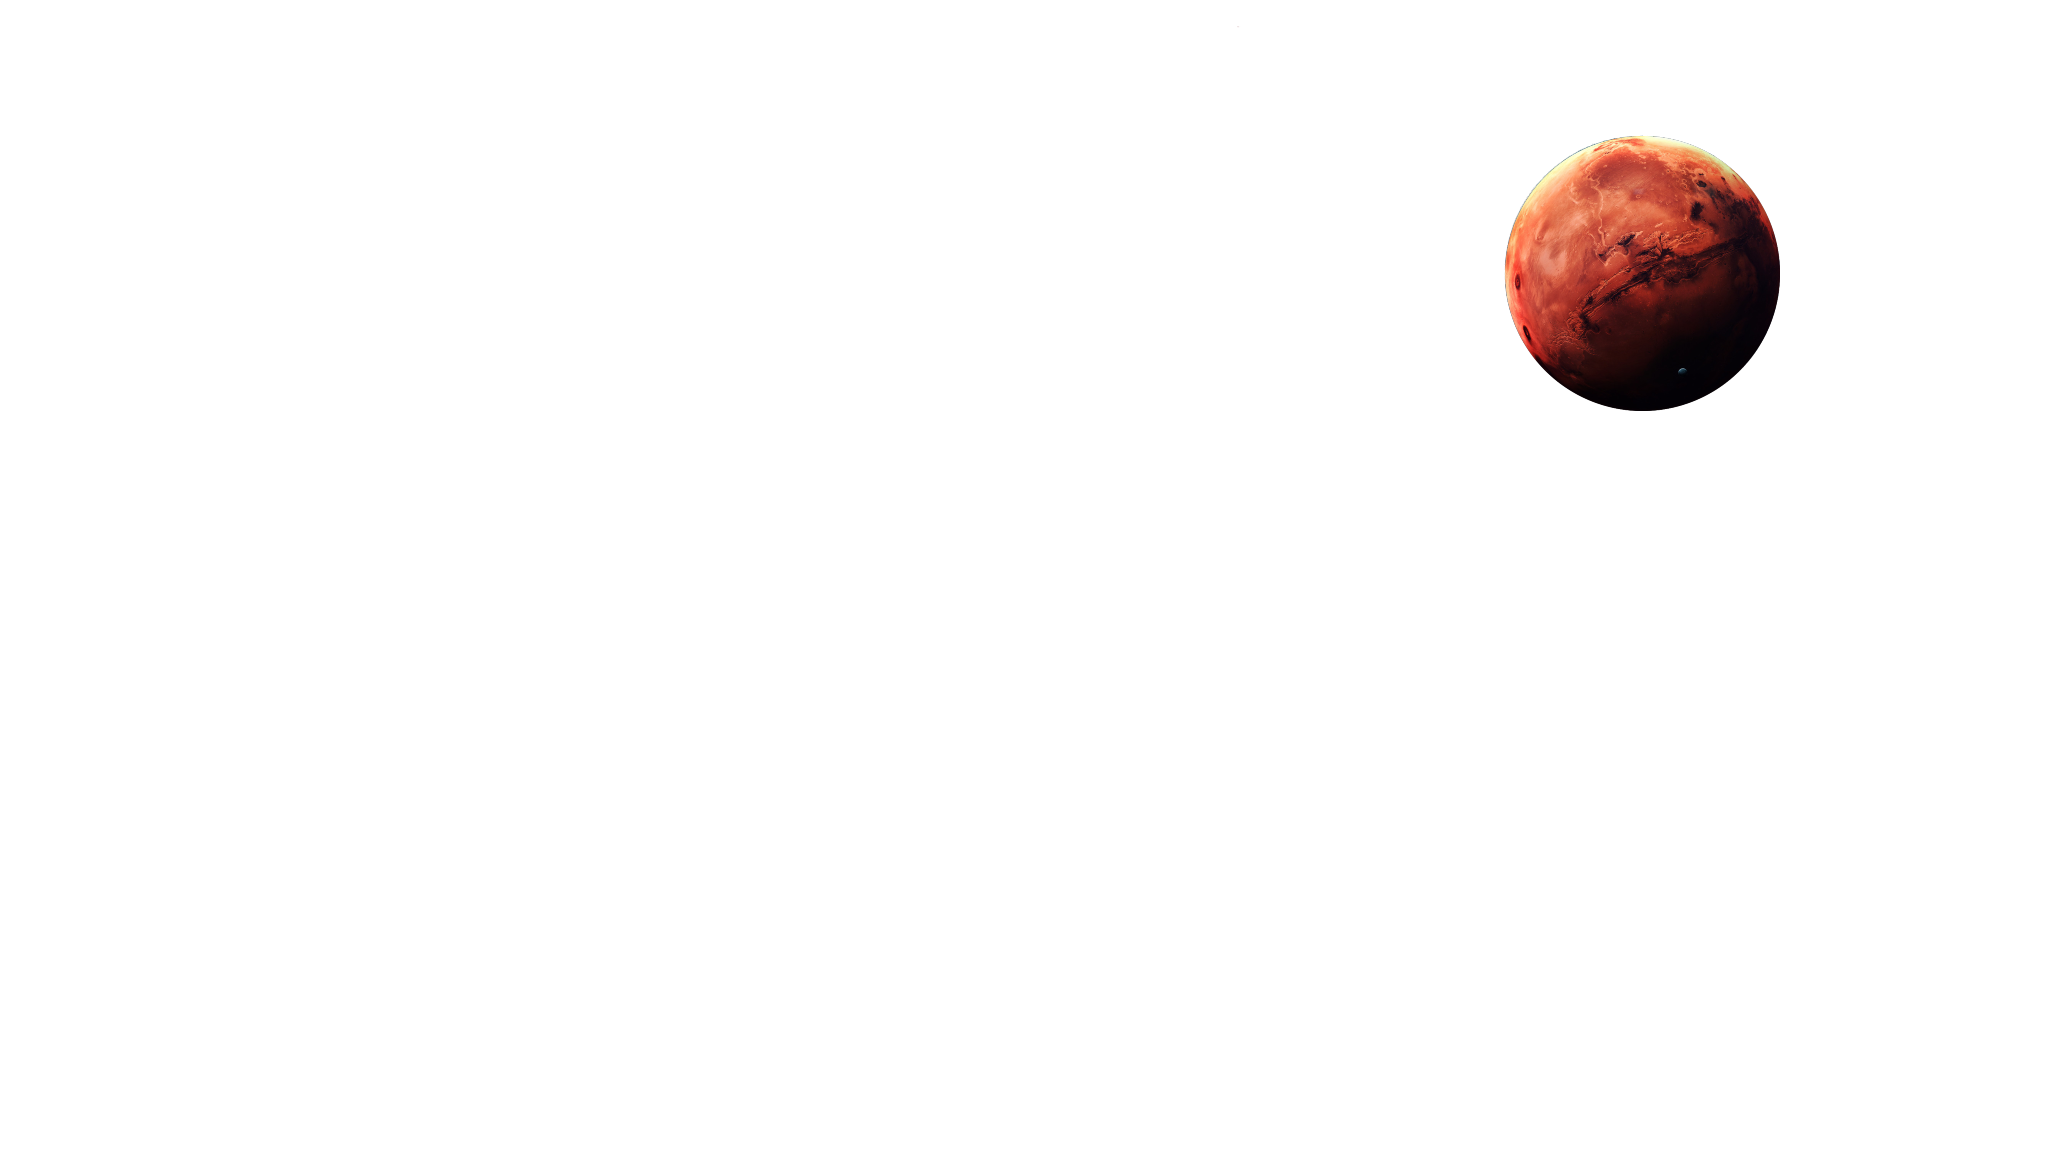
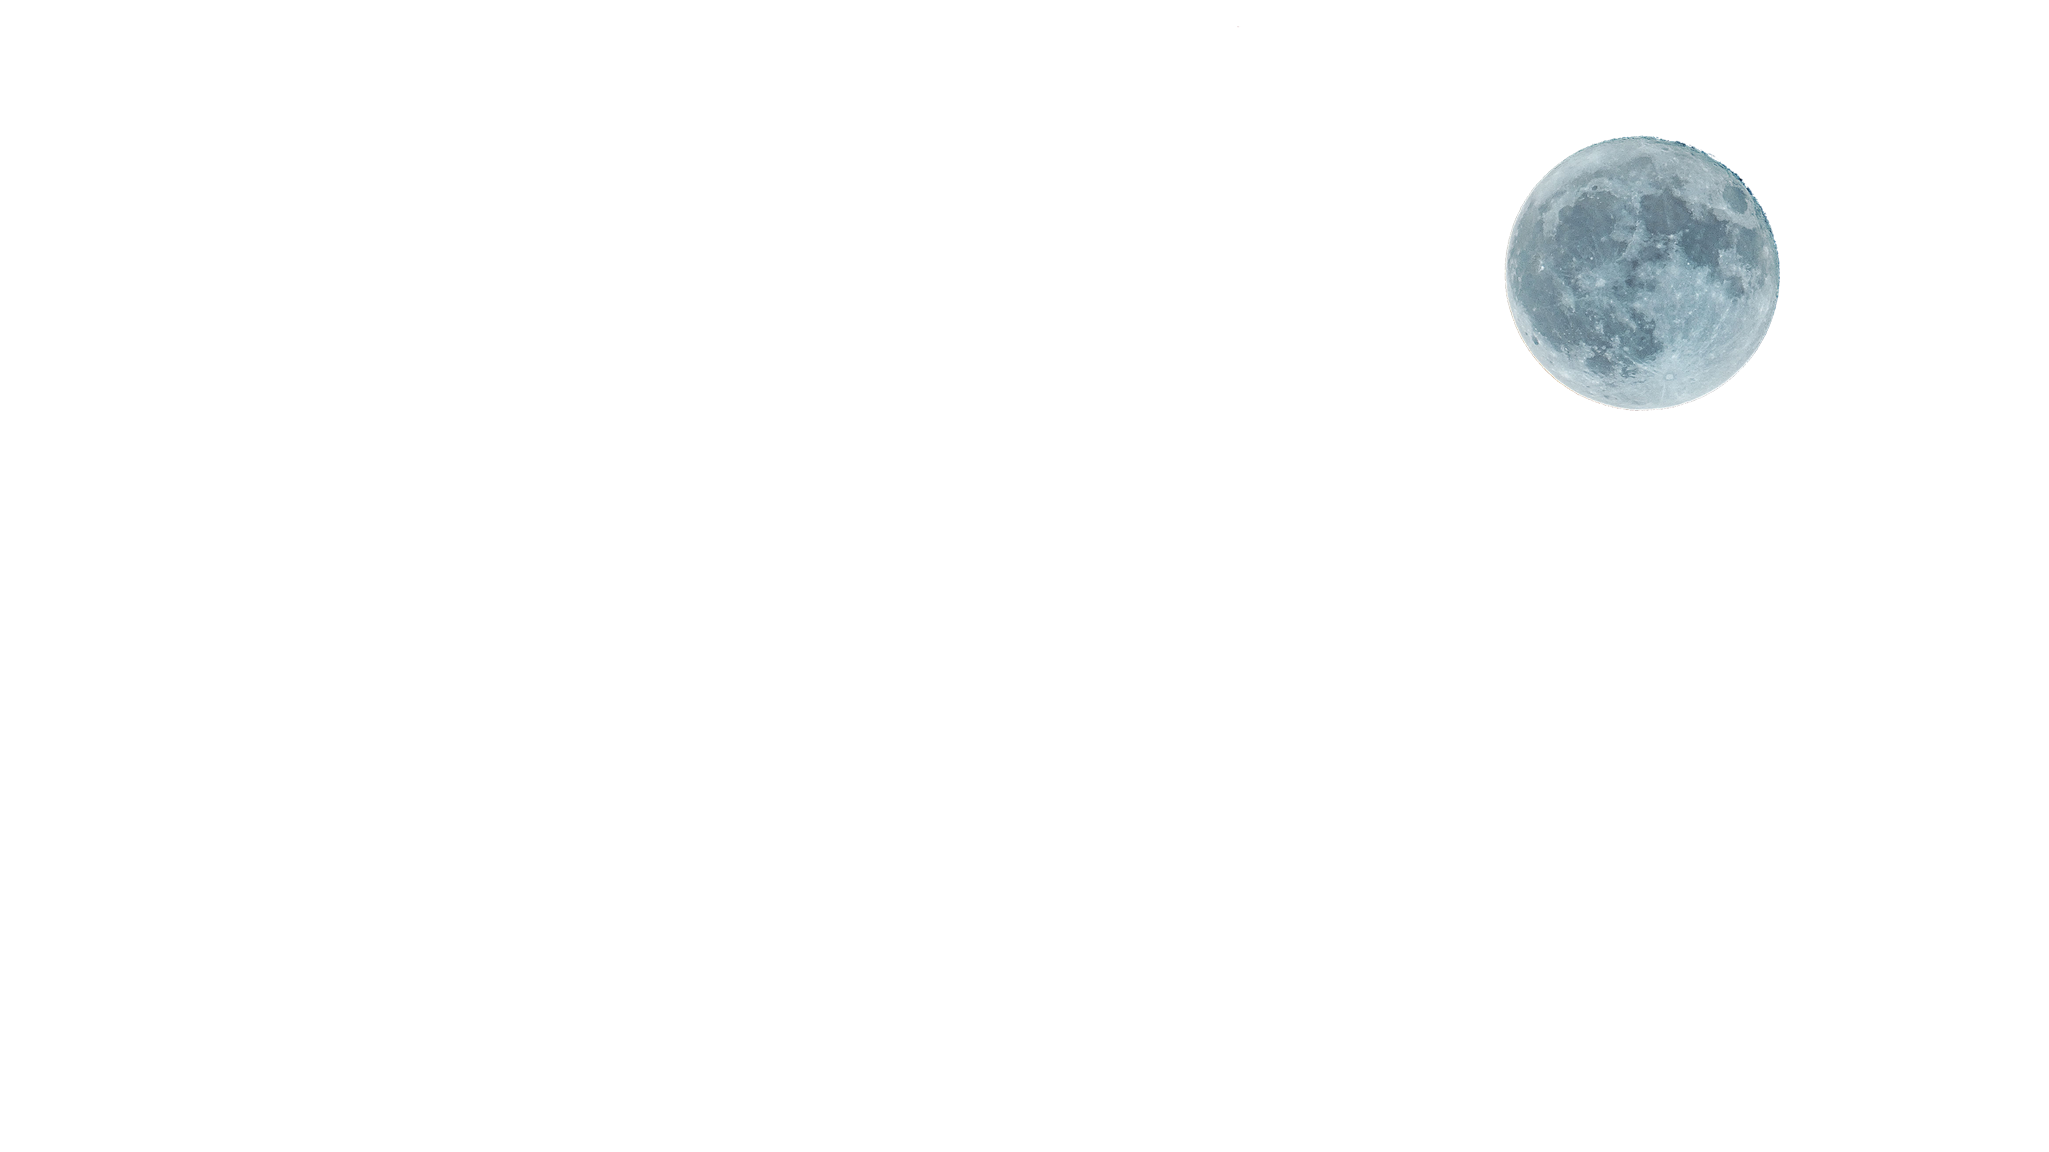
remove background from students page. Use moon to make it cleaner

Changed region(s): [[0.7184, 0.0938, 0.8746, 0.375]]

diff --git a/docs/js/home-hero.js b/docs/js/home-hero.js
@@ -1,4 +1,4 @@
-let bg = document.getElementById('hero-bg');
+// let bg = document.getElementById('hero-bg');
 let planet = document.getElementById('hero-planet');
 let mountain_back = document.getElementById('hero-mountain-back');
 let mountain_middle = document.getElementById('hero-mountain-middle');
@@ -9,7 +9,7 @@ window.addEventListener('scroll', function(){
     var value = window.scrollY;
     
     // background
-    bg.style.top = -value * 0.2 + 'px';
+    // bg.style.top = -value * 0.2 + 'px';
     // planet
     planet.style.left = -value * 0.5 + 'px';
     planet.style.top = value * 0.8 + 'px';

diff --git a/docs/students.html b/docs/students.html
@@ -21,7 +21,7 @@
         </style>
 
         <section id="home-hero">
-            <img src="images/home-hero/bg.jpg" id="hero-bg">
+            <!-- <img src="images/home-hero/bg.jpg" id="hero-bg"> -->
             <img src="images/home-hero/planet.png" id="hero-planet">
             <img src="images/home-hero/mountain-back.png" id="hero-mountain-back">
             <img src="images/home-hero/mountain-middle.png" id="hero-mountain-middle">
